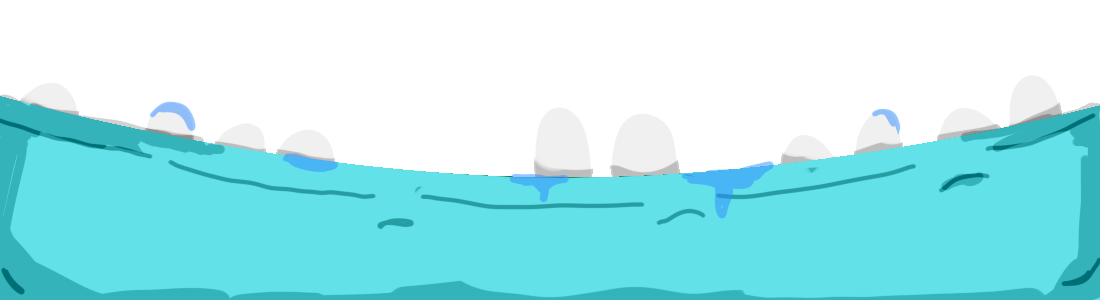
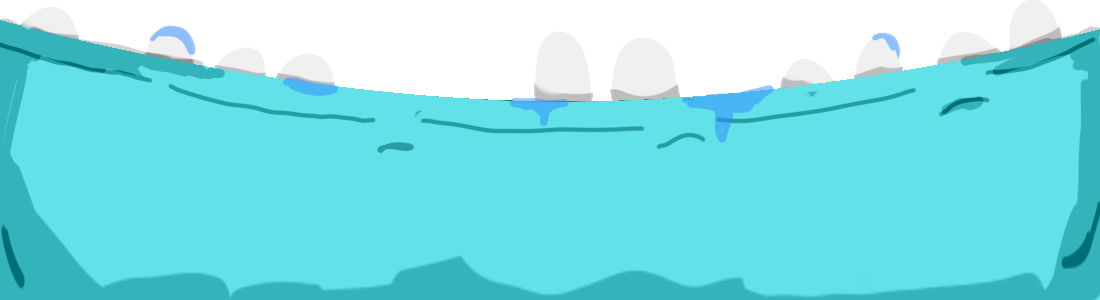
fixed text area && header e footer img

diff --git a/src/App.css b/src/App.css
@@ -19,14 +19,14 @@ header {
 
 .headerimg {
 position: absolute;
-top: -7vw;
+top: -14vw;
 width: 100vw;
 }
 .Footimg {
   position: absolute;
   width: 100vw;
  
-  bottom: -12vw;
+  bottom: -18vw;
 
 }
 .backg {
@@ -59,47 +59,53 @@ section {
 }
 .boxOne {
   display: flex;
+
   width: 45vh;
   height: 63vh;
- 
+ justify-content: center;
+ align-items: center;
   background: url('./components/img/box1.png') no-repeat;
   background-size: 100%;
   
 }
 .boxOneText {
-  margin: 39px 15px 10px 15px;
-  width: 45vh;
+  
+  width: 40vh;
   height: 52vh;
   font-family: "Lilita One", sans-serif;
   font-weight: 400;
   font-style: normal;
   color: aliceblue;
+  font-size: 1rem;
   border: none;
-  position: relative;
+  outline: none;
   resize: none;
   background: none;
+  overflow: auto;
 }
 .boxTwo {
   display: flex;
   width: 45vh;
   height: 63vh;
+  justify-content: center;
+  align-items: center;
  
   background: url('./components/img/box2.png') no-repeat;
   background-size: 100%;
 }
 .boxTwoText {
-  margin: 39px 15px 10px 15px;
-  width: 45vh;
+  width: 40vh;
   height: 52vh;
   font-family: "Lilita One", sans-serif;
   font-weight: 400;
   font-style: normal;
   color: aliceblue;
+  font-size: 1rem;
   border: none;
-
-  position: relative;
+  outline: none;
   resize: none;
   background: none;
+  overflow: auto;
   
 }
 .divButton {

diff --git a/src/components/Anim.css b/src/components/Anim.css
@@ -1,21 +1,22 @@
+
 @keyframes moveHeader {
-    from{ top: -7vw;}
+    from{ top: -14vw;}
     to{
-        top: -6.7vw;
+        top: -13.7vw;
     }
     
 }
 @keyframes moveFooter {
-    from{ bottom: -12vw;}
+    from{ bottom: -18vw;}
     to{
-        bottom: -11.7vw;
+        bottom: -17.7vw;
     }
     
 }
 
 
 .headerimg {
-    top: -7vw;
+   
 
     animation-name: moveHeader;
     animation-duration: 2.1s;
